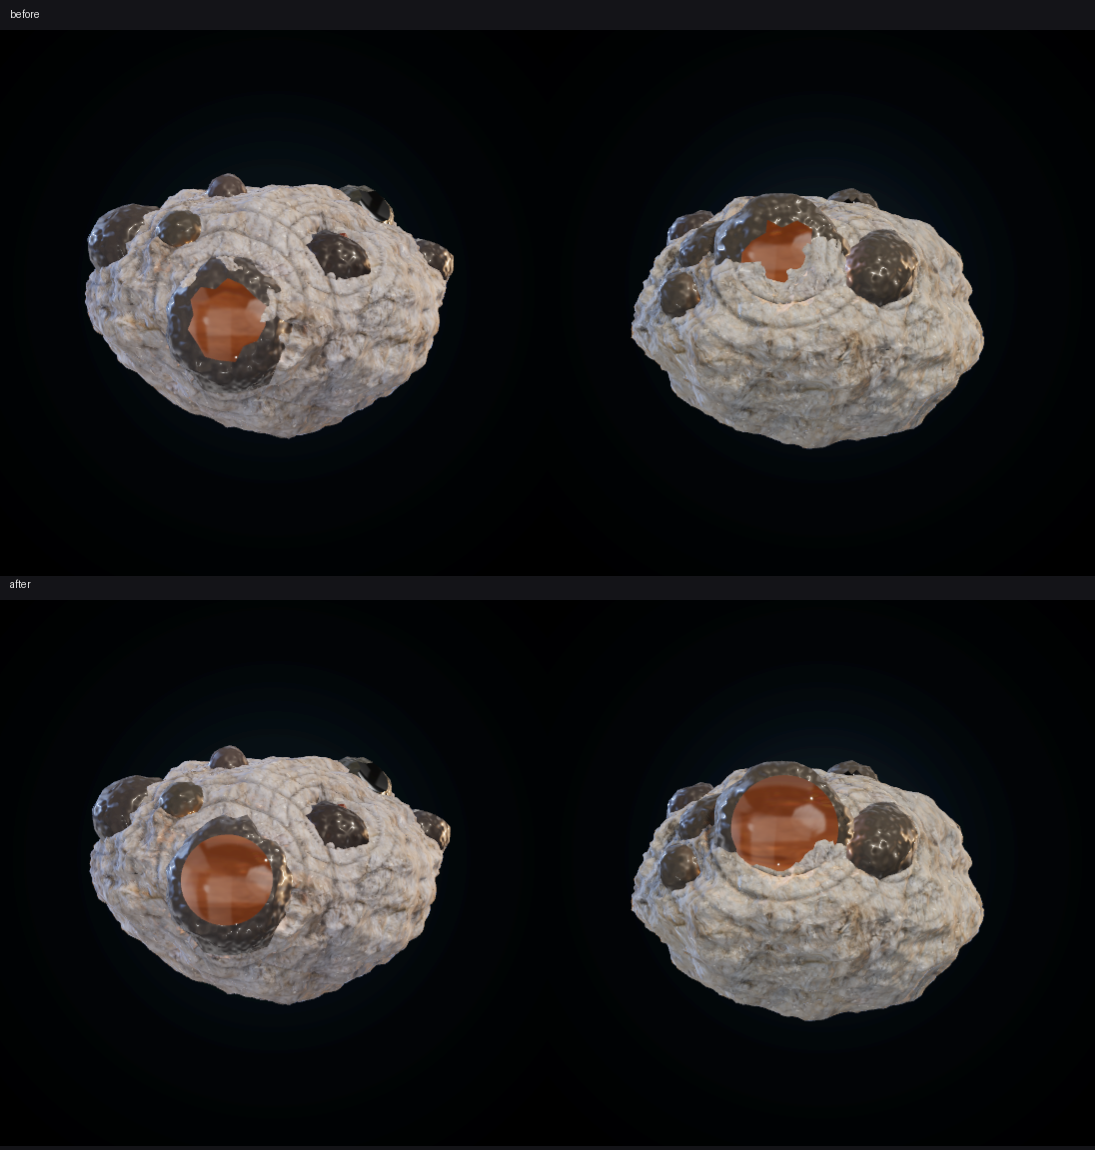
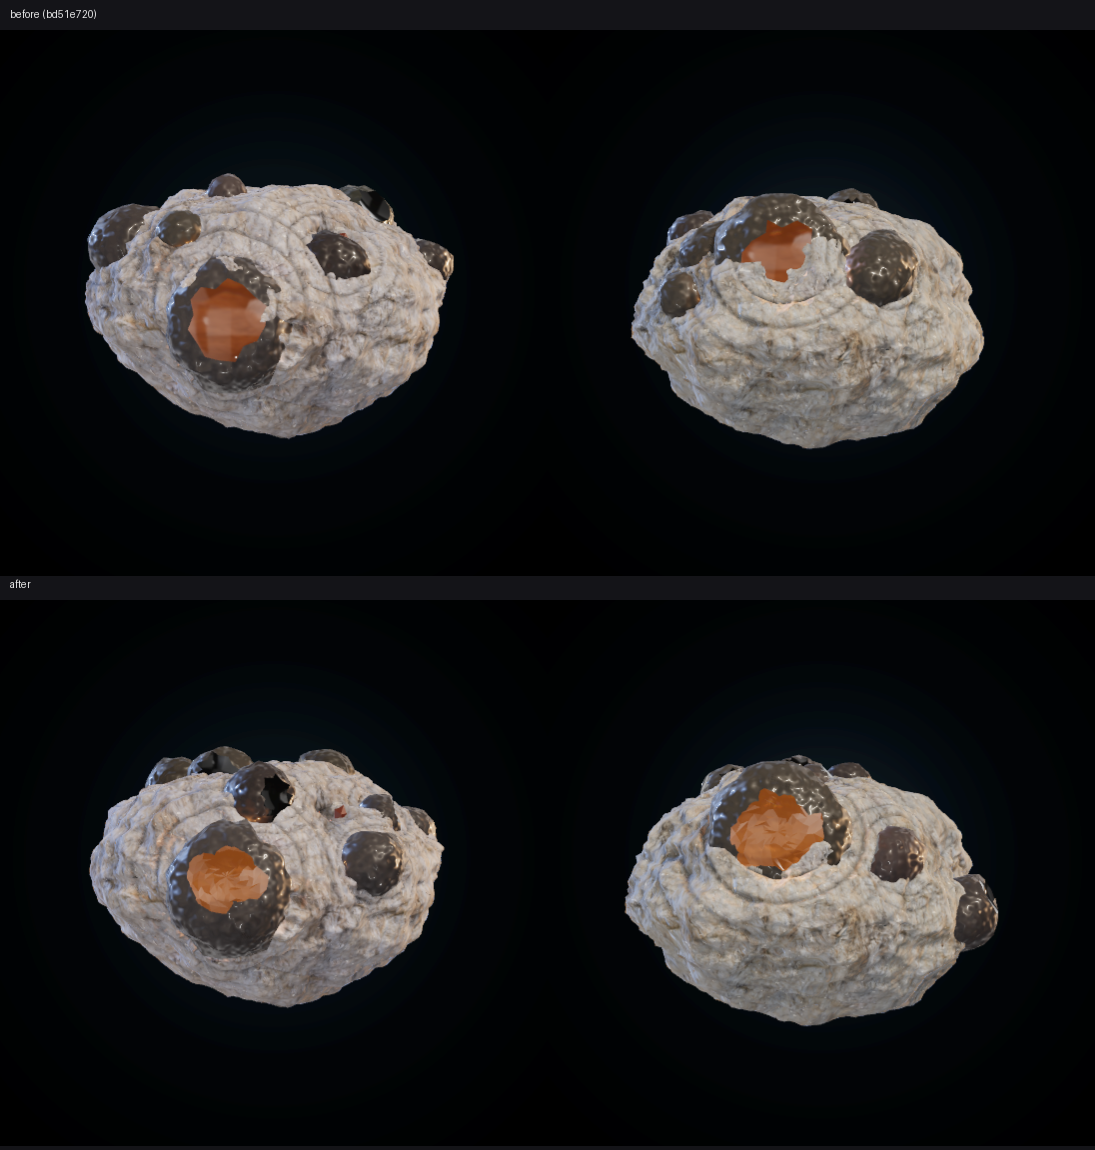
Слёзы апачей: окно снова несимметричное, но с плавной кромкой; стекло в гранях и бугорках, свечение ярче

Changed region(s): [[0.5589, 0.6391, 0.9315, 0.913], [0.0621, 0.6391, 0.4347, 0.8826]]

diff --git a/CLAUDE.md b/CLAUDE.md
@@ -59,7 +59,7 @@
 - Экран загрузки (`screens/boot.gd`): анимация камня из файла, прогрев шейдеров, фоновая загрузка.
 
 ## Что дальше
-- 15.11 (`fixes`), **слёзы апачей (обсидиан) — не мыло и не шарики**: перлит был своим гладким комком без скана породы, слёзы — гладкие яйца-икосаэдры, торчащие сверху. Теперь (`SpecObsidian._tears`) перлит — порода генератора (`RockKit.rock` «gypsum»: рельеф и скан `marble_cliff_05`, серый), слёзы — 6–10 мелких неровных желваков (`chunk` с `detail` 3–4: матовая бугристая корочка + 1–3 скола зеркального чёрного стекла, два материала), утоплены почти наполовину по нормали породы, не касаются друг друга, крупная — к зрителю. До/после — `art/obsidian_tears_ba.png`. На iPhone не проверено. Затем (было скучно): главная слеза — «фонарик»: крупная (0,22–0,26·gs), к зрителю, на ней полированное выпуклое окно из дымчато-чайного стекла генератора (`glass`, `tint_body`, `deep_body`), внутри — аддитивная сердцевина и тёплая лампа (подсвечивает перлит рядом); перлит вокруг каждой слезы треснул кольцами, как луковица (вершины верха породы раздроблены раз, кольца — бороздка + темнее). Новая лампа и аддитивная сетка — на iPhone не проверены. Затем окно доведено: своя круглая сетка-купол (12 колец × 56, кожа под ней вырезана, радиус — по месту, где кожа пересекает срез), стекло темнее (0x3c1e0a), свечение — 4 вложенные аддитивные сферы (к середине ярче), изнанка кожи главной слезы видна (тёмная полость, а не порода за ней), слеза утоплена меньше (0,32) и окно смотрит больше вверх — порода не наползает. До/после — `art/obsidian_window_ba.png`.
+- 15.11 (`fixes`), **слёзы апачей (обсидиан) — не мыло и не шарики**: перлит был своим гладким комком без скана породы, слёзы — гладкие яйца-икосаэдры, торчащие сверху. Теперь (`SpecObsidian._tears`) перлит — порода генератора (`RockKit.rock` «gypsum»: рельеф и скан `marble_cliff_05`, серый), слёзы — 6–10 мелких неровных желваков (`chunk` с `detail` 3–4: матовая бугристая корочка + 1–3 скола зеркального чёрного стекла, два материала), утоплены почти наполовину по нормали породы, не касаются друг друга, крупная — к зрителю. До/после — `art/obsidian_tears_ba.png`. На iPhone не проверено. Затем (было скучно): главная слеза — «фонарик»: крупная (0,22–0,26·gs), к зрителю, на ней полированное выпуклое окно из дымчато-чайного стекла генератора (`glass`, `tint_body`, `deep_body`), внутри — аддитивная сердцевина и тёплая лампа (подсвечивает перлит рядом); перлит вокруг каждой слезы треснул кольцами, как луковица (вершины верха породы раздроблены раз, кольца — бороздка + темнее). Новая лампа и аддитивная сетка — на iPhone не проверены. Затем окно (круглое отклонено — несимметричное лучше): контур неровный по шуму и сдвинут от середины (`rim`), кожа слезы у края мягко спускается к стеклу губой (`lip`, без обрыва), стекло — крупная сетка 6×22 с бугорками полировки и плоскими гранями (нормаль на ¾ от грани), тёплое стекло 0x6e3e12, свечение — 4 вложенные аддитивные сферы под серединой окна; изнанка кожи главной слезы видна (тёмная полость), слеза утоплена на 0,32. До/после — `art/obsidian_window_ba.png`.
 - 14.11 (`fixes`), **крупные цветы не на краю породы** (скрин: горечавка на оливине торчала за край): на округлой глыбе верх только «наклонный» (ровных мест < 8), и цветок садился на кромку. Теперь (`SpecFlora.grow`) крупный цветок — только где соседние смотрящие вверх места лежат вокруг него, а не с одной стороны (центр соседей в радиусе 0,3·gs — ближе 0,14 радиуса, соседей ≥ 8); фиалок не касается. Замер — `rest_audit -- acc=flowers flora=N brink` (доля кольца вокруг основания над пустотой): горечавки на оливине 0,50 → 0,33, розы Old Adit 0,49 → 0,20; цветы растут на стольких же находках (10/20, 7 → 9/20). Затем — настоящая причина «цветка в воздухе»: основание стояло на породе (замерено, ≤ 0,03), но вторая модель горечавки (`gentian_b_0`, и роза) раскинута в одну сторону на целую единицу от основания, а поворачивалась случайно — раскид уходил за край. Теперь модель с раскидом (центр коробки дальше 0,08 от оси) поворачивается раскидом к середине породы, а если там кристаллы — вдоль края (±0,9, ±1,5 рад), но не наружу. Цветы растут почти на стольких же находках (9/20, 8/20). Сверху/спереди/сбоку — `art/olivine_views.png`, витрина до/после — `art/flora_rim_ba.png`. На iPhone не проверено.
 - 14.11 (`fixes`), **печать при Claim ачивки — маленькая, в левом верхнем углу листка** (была на всю середину, закрывала текст и кнопку): листок — контейнер, и он растягивал печать по всей ширине; теперь она кладётся на первого предка без раскладки (`Awards._stamp`), ×2 (≈68 pt), центр в 30 pt от угла — чуть заходит за край рамки, опускается с ×1,9. Кадры — `art/award_seal.png`. Снимок: в сохранении `aw_ev.clean_find = 1`, ключи `screen=home ui=award_first ui_after=3 "tap=…;195,524"`. На iPhone не проверено.
 - 14.11 (`fixes`), **боковые кристаллики одиночного кристалла вросли в породу** (по скрину с iPhone: висели у основания в воздухе): место — только смотрящее вверх (нормаль > 0,55, 16 попыток; нет такого — кристаллика нет), основание утоплено вдоль его оси на треть длины (`SpecimenBuilder`, раскладка `single`). До/после — `art/side_crystals_zoom.png`. Найденные одиночные кристаллы меняют вид.
